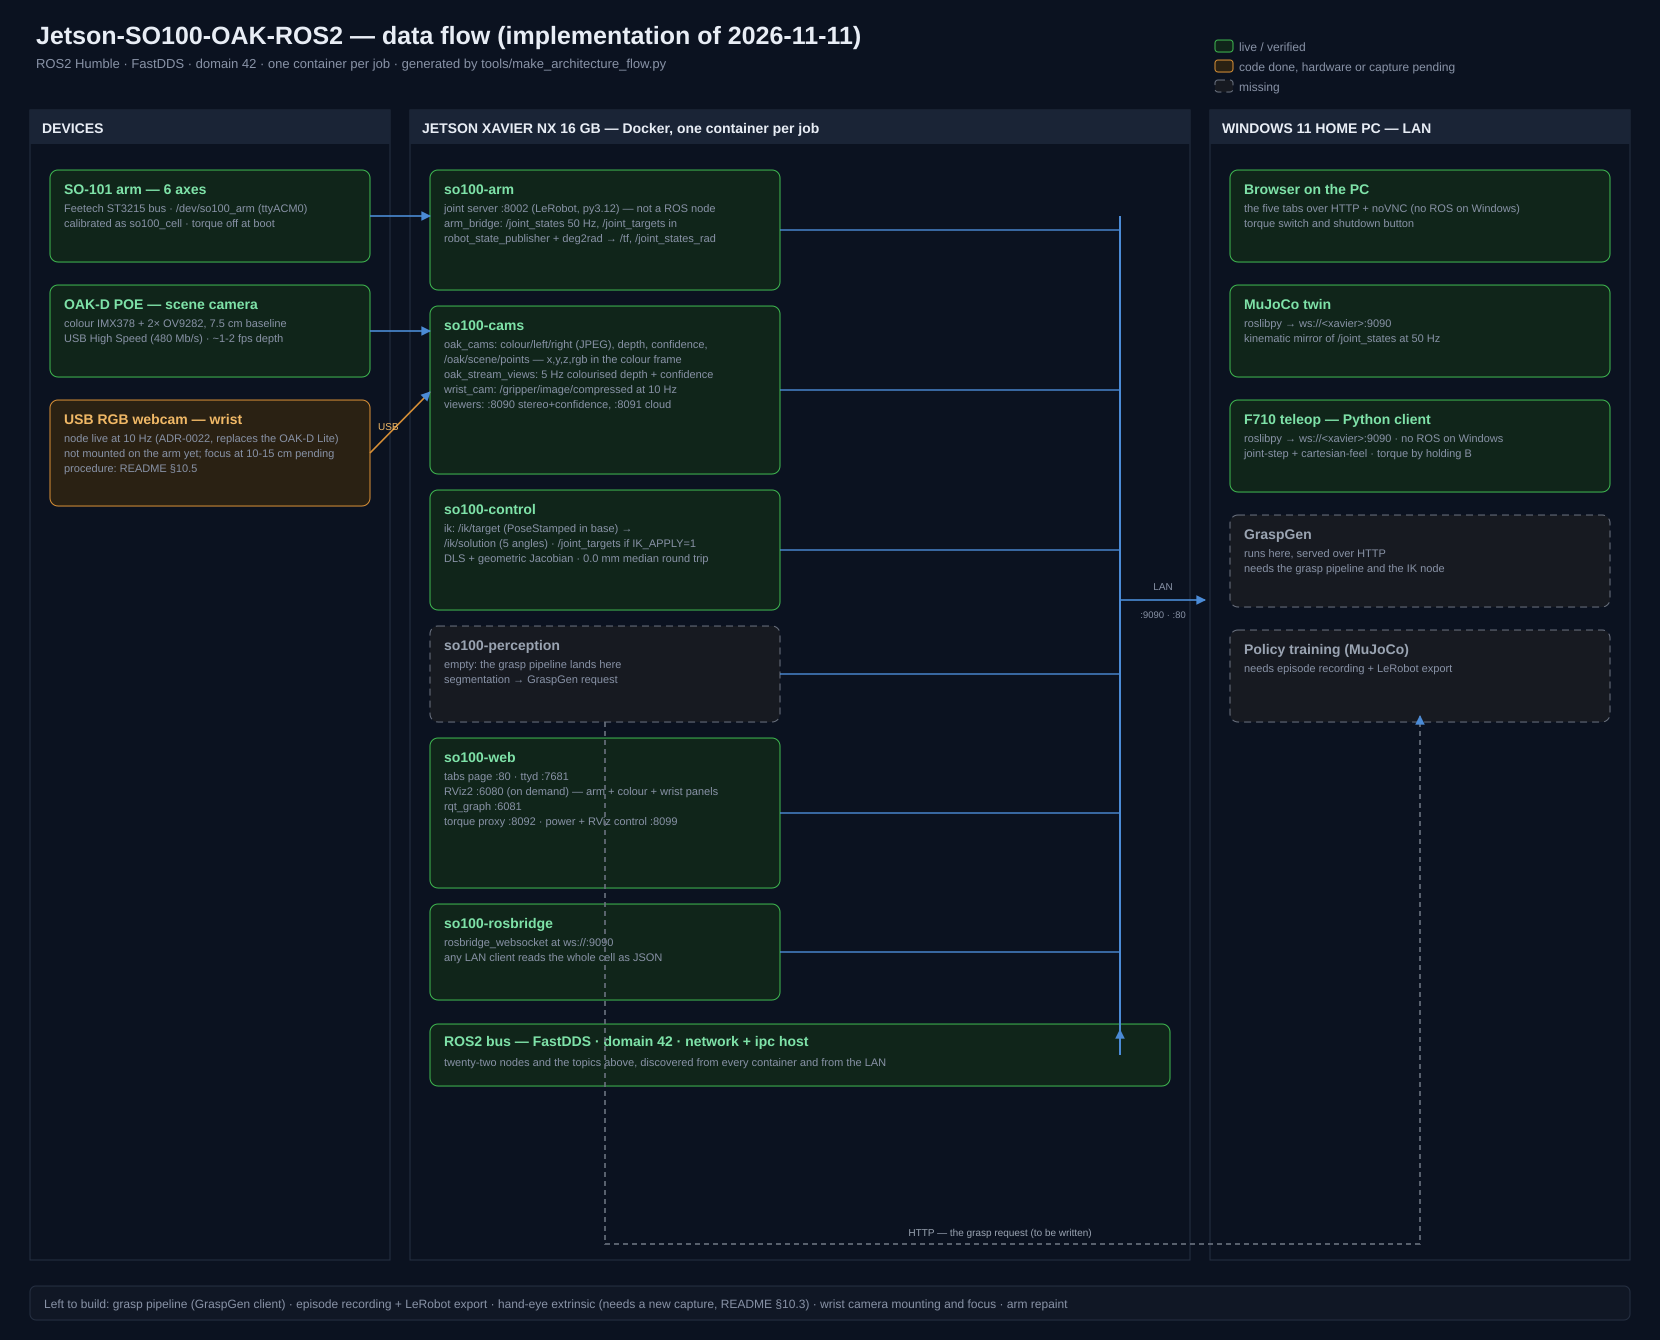
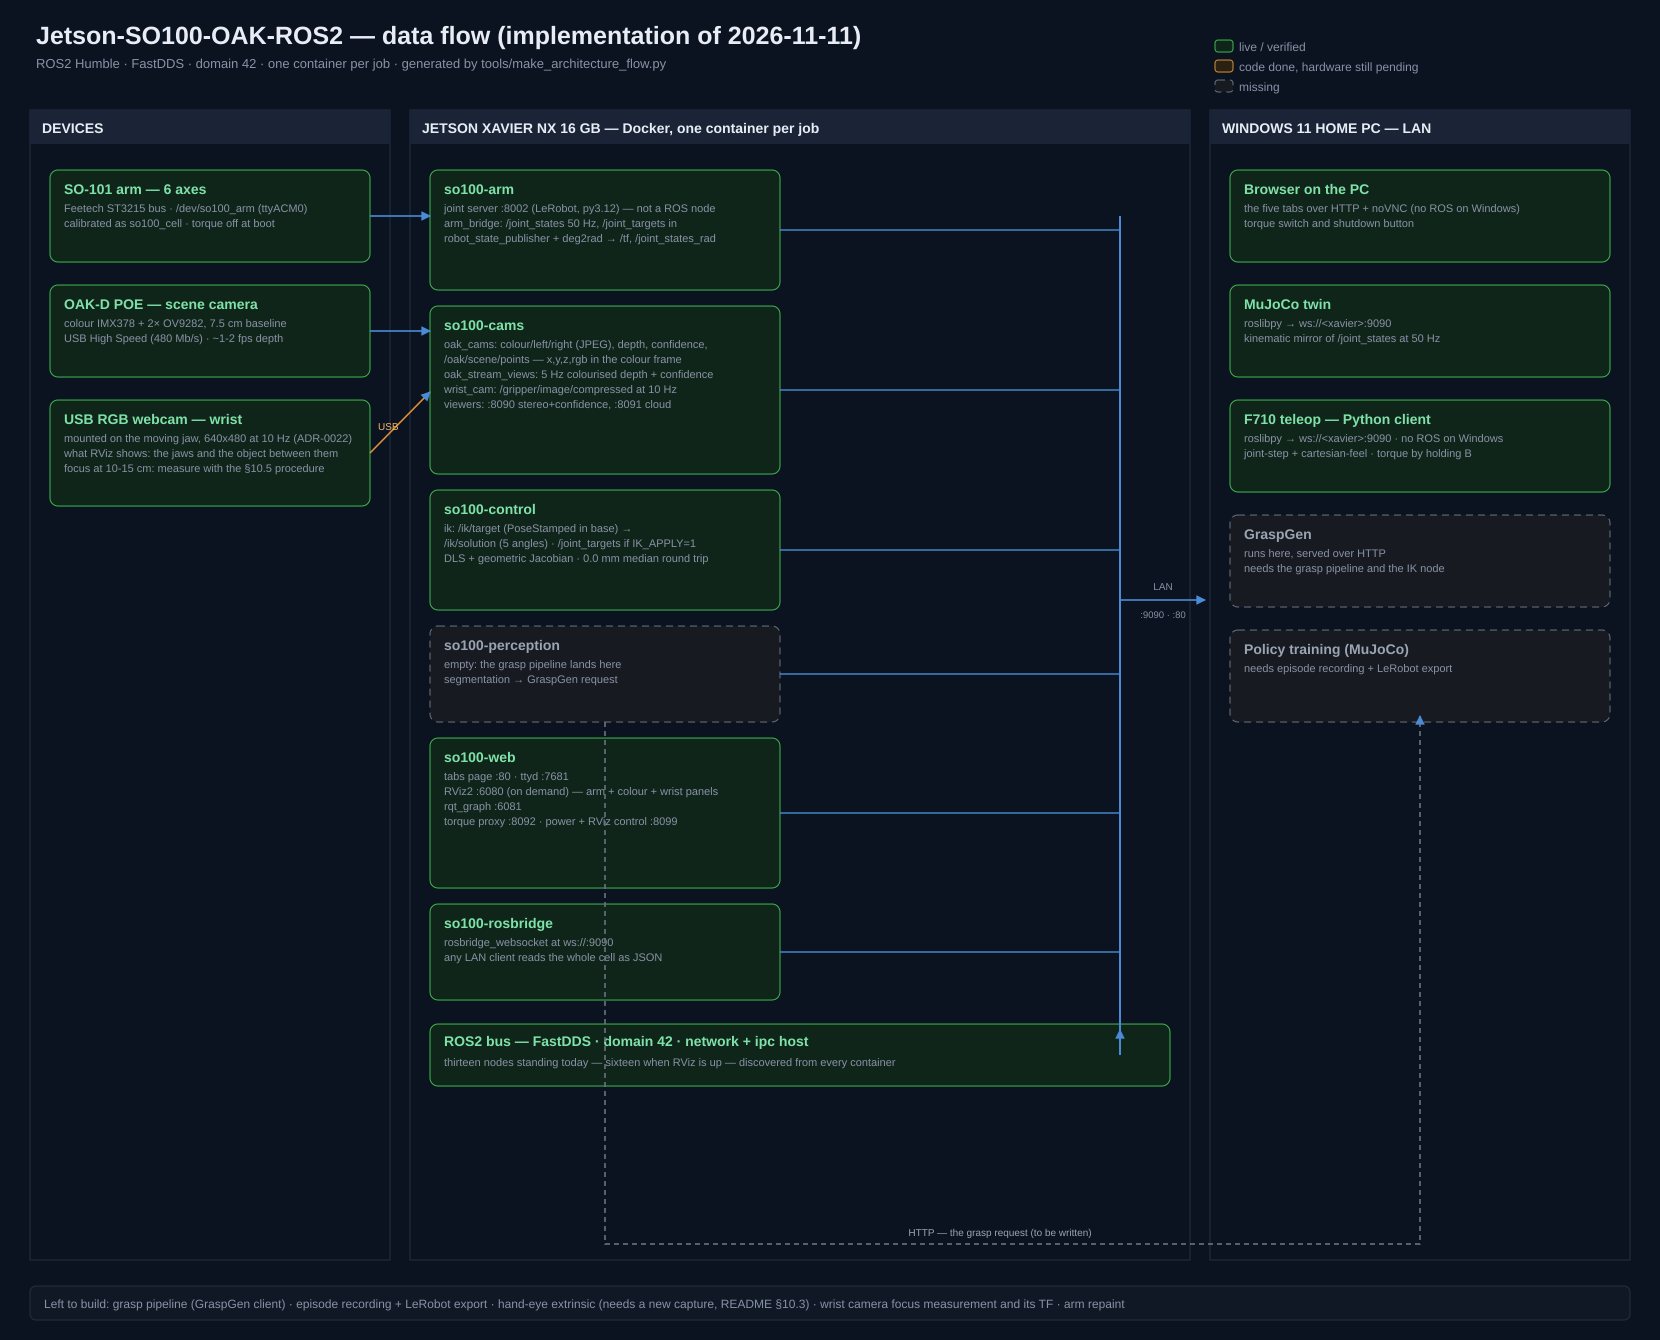
docs: the wrist camera is mounted; the cell has thirteen nodes, not twenty-two
Two corrections from the bench:

- the wrist webcam is on the moving jaw and streaming at 10 Hz — RViz shows
  the jaws and the object between them. README §2.3, §3, §5, §10.5, ADR-0022 and
  the data flow all said "not mounted yet"; what is actually open is the
  *measured* focus (§10.5) and the static TF from moving_jaw_so101_v1
- the data flow claimed twenty-two nodes. Thirteen stand today, sixteen with
  RViz up; the number is now the measured one

The Graph tab also gained a toolbar reload before the fit: rqt builds its graph
once at startup and only patches it afterwards, so nodes missed in that first
pass (deg2rad, ik) never appear until the graph is re-queried by hand — which is
what the reload button does.

diff --git a/tools/make_architecture_flow.py b/tools/make_architecture_flow.py
@@ -74,7 +74,7 @@ text(36, 68, "ROS2 Humble · FastDDS · domain 42 · one container per job · ge
              "tools/make_architecture_flow.py", 13)
 
 for i, (kind, txt) in enumerate([("green", "live / verified"),
-                                ("amber", "code done, hardware or capture pending"),
+                                ("amber", "code done, hardware still pending"),
                                 ("grey", "missing")]):
     y = 40 + i * 20
     box(1215, y, 18, 12, kind, r=3)
@@ -97,9 +97,9 @@ card(50, 285, 320, 92, "OAK-D POE — scene camera",
      ["colour IMX378 + 2× OV9282, 7.5 cm baseline",
       "USB High Speed (480 Mb/s) · ~1-2 fps depth"])
 card(50, 400, 320, 106, "USB RGB webcam — wrist", [
-     "node live at 10 Hz (ADR-0022, replaces the OAK-D Lite)",
-     "not mounted on the arm yet; focus at 10-15 cm pending",
-     "procedure: README §10.5"], "amber")
+     "mounted on the moving jaw, 640x480 at 10 Hz (ADR-0022)",
+     "what RViz shows: the jaws and the object between them",
+     "focus at 10-15 cm: measure with the §10.5 procedure", ], "green")
 
 # ----------------------------------------------------------------- containers
 card(430, 170, 350, 120, "so100-arm", [
@@ -136,8 +136,7 @@ card(430, 904, 350, 96, "so100-rosbridge", [
 # ROS2 bus band
 box(430, 1024, 740, 62, "green")
 text(444, 1046, "ROS2 bus — FastDDS · domain 42 · network + ipc host", 14, GREEN_T, bold=True)
-text(444, 1066, "twenty-two nodes and the topics above, discovered from every container and from "
-                "the LAN", 11)
+text(444, 1066, "thirteen nodes standing today — sixteen when RViz is up — discovered from every container ", 11)
 
 # ----------------------------------------------------------------- windows
 card(1230, 170, 380, 92, "Browser on the PC", [
@@ -183,7 +182,7 @@ label(1000, 1236, "HTTP — the grasp request (to be written)", GREY_T, 10)
 add('<rect x="30" y="1286" width="1600" height="34" rx="6" fill="#101725" stroke="%s"/>' % FRAME)
 text(44, 1308, "Left to build:  grasp pipeline (GraspGen client) · episode recording + LeRobot "
                "export · hand-eye extrinsic (needs a new capture, README §10.3) · wrist camera "
-               "mounting and focus · arm repaint", 12, DIM)
+               "focus measurement and its TF · arm repaint", 12, DIM)
 
 add("</svg>")
 open("docs/architecture-flow.svg", "w").write("\n".join(out) + "\n")

diff --git a/README.md b/README.md
@@ -112,7 +112,7 @@ seen working on this hardware, so trust it over the plan when they disagree.
 - [ ] **Depth scale, second distance** — repeat the PnP-vs-depth check at ~0.40 m to tell a proportional error from a fixed offset, then decide whether `OAK_SCENE_DEPTH_SCALE` becomes 0.971 or stays 1.0
 - [ ] **Episode recording + LeRobot export (ADR-0012)** — rosbag2 of the synchronised topics and an offline converter to the dataset format
 - [ ] **Hand-eye extrinsic — needs a new capture** — the 2026-11-09 dataset does not close: the board lands 694 mm from the jaw with a 300 mm spread, so the poses and the frames are not from the same instants (§10.3). Bolt the board to the jaw, read the pose at the shot, and run `tools/handeye_bundle.py`, which reports the leave-one-out error instead of a spread that looks small on bad data. Until then no node consumes an extrinsic, which is the safe state
-- [ ] **Gripper camera (ADR-0008, superseded by ADR-0022)** — a USB RGB webcam with manual focus, set at 10-15 cm; not mounted yet. The focus procedure it has to pass is in §10.5, and `tools/camfocus.py` is the tool that measures it
+- [ ] **Gripper camera focus (ADR-0022)** — the USB RGB webcam is **mounted on the moving jaw** and streams at 10 Hz; what is still missing is the *measured* focus at 10-15 cm, with the procedure and the CSV in §10.5 (`tools/camfocus.py`)
 - [ ] **GraspGen (ADR-0013)** and **policy training (ADR-0016)** — need the IK node and the recorder first
 
 ## 3. Prerequisites
@@ -126,7 +126,7 @@ the later chapters assume it, and the failure they produce points somewhere else
 |---|---|---|
 | Arm | SO-101 follower, six Feetech servos, 12 V supply | `/dev/so100_arm` on the Xavier — a udev symlink, because the CH9102 adapter (VID `1a86`) re-enumerates; inside the container it is still `/dev/ttyACM0` |
 | Scene camera | OAK-D POE (IMX378 colour + 2x OV9282 mono, 7.5 cm baseline) over USB-C | opened by the cams container |
-| Wrist camera | USB RGB webcam, manual focus set at 10-15 cm | not mounted yet; the focus requirement and how it is proven are in §10.5 (ADR-0022) |
+| Wrist camera | USB RGB webcam, manual focus set at 10-15 cm | mounted on the moving jaw, streaming at 10 Hz; the focus requirement and how it is proven are in §10.5 (ADR-0022) |
 | Host | Jetson Xavier NX 16 GB, JetPack 5.1.5 (Ubuntu 20.04) | the six containers |
 | Operator PC | Windows 11, or anything with Chromium, on the same LAN | the tabs, MuJoCo, the F710 |
 | Pad | Logitech F710, back switch in **X** mode | `/joint_targets` over rosbridge |
@@ -240,7 +240,7 @@ The calibration file is overwritten in place, so keep a copy if you want to comp
 
 ## 5. Camera bring-up — depthai on the Xavier
 
-**State:** scene OAK-D-POE (IMX378 colour + two OV9282 mono, 7.5 cm baseline) capturing colour 1920x1080 and depth 1280x720 at **1.0-1.5 fps**, limited by the link negotiating **High Speed (480 Mb/s)** rather than SuperSpeed — the cable or the port is the suspect, not the camera. The two mono views are published too, so the stereo pair can be inspected from the browser. The wrist camera is a plain USB RGB webcam, not an OAK (ADR-0022), and is not mounted yet. `depthai-core` v2.33.0 built from source and installed at `~/depthai`; `depthai-python` bindings built against it and installed into `~/oak/.venv` (version string `2.33.0.0.dev0+<commit>` — the source build, not the wheel).
+**State:** scene OAK-D-POE (IMX378 colour + two OV9282 mono, 7.5 cm baseline) capturing colour 1920x1080 and depth 1280x720 at **1.0-1.5 fps**, limited by the link negotiating **High Speed (480 Mb/s)** rather than SuperSpeed — the cable or the port is the suspect, not the camera. The two mono views are published too, so the stereo pair can be inspected from the browser. The wrist camera is a plain USB RGB webcam, not an OAK (ADR-0022), mounted on the moving jaw and streaming at 10 Hz — the RViz panel shows the jaws and the object between them. `depthai-core` v2.33.0 built from source and installed at `~/depthai`; `depthai-python` bindings built against it and installed into `~/oak/.venv` (version string `2.33.0.0.dev0+<commit>` — the source build, not the wheel).
 
 1. **udev rule (once):** `/etc/udev/rules.d/80-oak.rules` → `SUBSYSTEM=="usb", ATTRS{idVendor}=="03e7", MODE="0666"`, then `udevadm control --reload-rules && udevadm trigger --subsystem-match=usb`. Without it, a bootloader-state device can't be opened by non-root.
 2. **Fallback venv (works today):** `uv venv ~/oak/.venv --python 3.12` + `uv pip install --python ~/oak/.venv/bin/python "depthai<3" opencv-python-headless` (wheel 2.33.0.0 — same API as the source build).
@@ -802,10 +802,10 @@ not because the exposure changed.
   `focus_absolute` 0-1023, so it can be focused at the real working distance and locked there
   (`curl 'http://127.0.0.1:8190/focus?v=350'` while pointing `camfocus` at it).
 - **The node side is live**: `wrist_cam` publishes `/gripper/image/compressed` at 10 Hz from
-  `/dev/so100_wrist` (§11.2), and the browser can see it at `:8090/gripper/stream`. What is missing
-  is physical — the camera is not on the arm, the focus has not been set with this procedure yet,
-  and there is no static transform from `moving_jaw_so101_v1` to `gripper_color_optical_frame`
-  because that needs the mount geometry.
+  `/dev/so100_wrist` (§11.2), and the browser can see it at `:8090/gripper/stream`. It is mounted on
+  the moving jaw; what is missing is the *measured* focus — run the procedure below and keep the
+  CSV — and the static transform from `moving_jaw_so101_v1` to `gripper_color_optical_frame`, which
+  needs the mount geometry (the bracket's offsets from the jaw axis).
 - The wrist camera is settled: a USB RGB webcam with manual focus, set at ≈12.5 cm and locked
   (ADR-0022 supersedes ADR-0008's OAK-D Lite, whose lens and stereo range both sit far beyond the
   wrist distance). That is why the 10-15 cm requirement is written as a *focus* requirement here,
@@ -813,9 +813,9 @@ not because the exposure changed.
 
 ![The wrist feed in the browser](docs/wrist-camera.png)
 
-*`/gripper/image/compressed` as it arrives today from the Logitech on the bench: 640x480 at 10 Hz,
-seen at `:8090/gripper/stream`. Blurred on purpose — the camera is not mounted and its focus has
-not been set; this is the pipeline, not the final view.*
+*`/gripper/image/compressed` as it arrives today, with the camera on the moving jaw: 640x480 at
+10 Hz, seen at `:8090/gripper/stream`. Blurred on purpose — it is the pipeline, not the final view;
+the focus is only proved once the procedure above has been run and its CSV kept.*
 
 ### 10.6 The cloud in the colour frame, coloured
 

diff --git a/docs/adr/0022-gripper-camera-webcam.md b/docs/adr/0022-gripper-camera-webcam.md
@@ -1,6 +1,8 @@
 # ADR-0022: Gripper camera — USB RGB webcam focused at 10-15 cm
 
-- Status: Accepted
+- Status: Accepted — **amended 2026-11-11**: the webcam is mounted on the moving jaw and
+  streams at 10 Hz (`/gripper/image/compressed`, 640x480); the *measured* focus and the static TF
+  from `moving_jaw_so101_v1` are still open
 - Date: 2026-11-11
 - Decided by: user
 - Supersedes: ADR-0008 (wrist OAK-D Lite)
